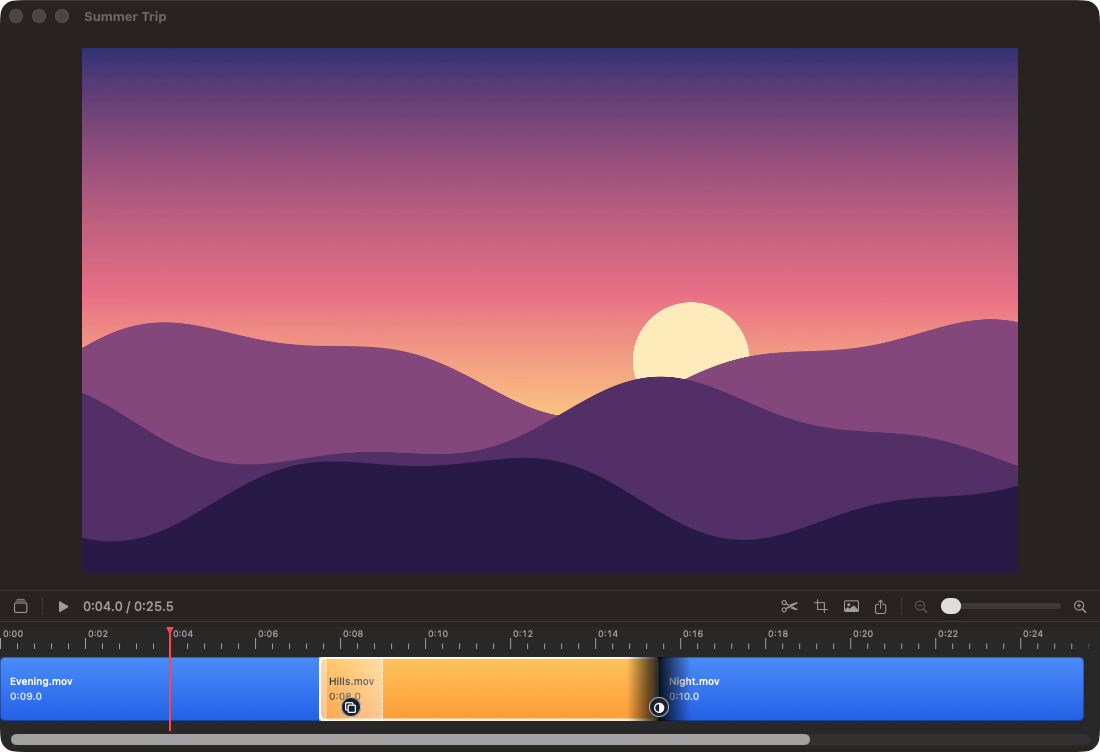
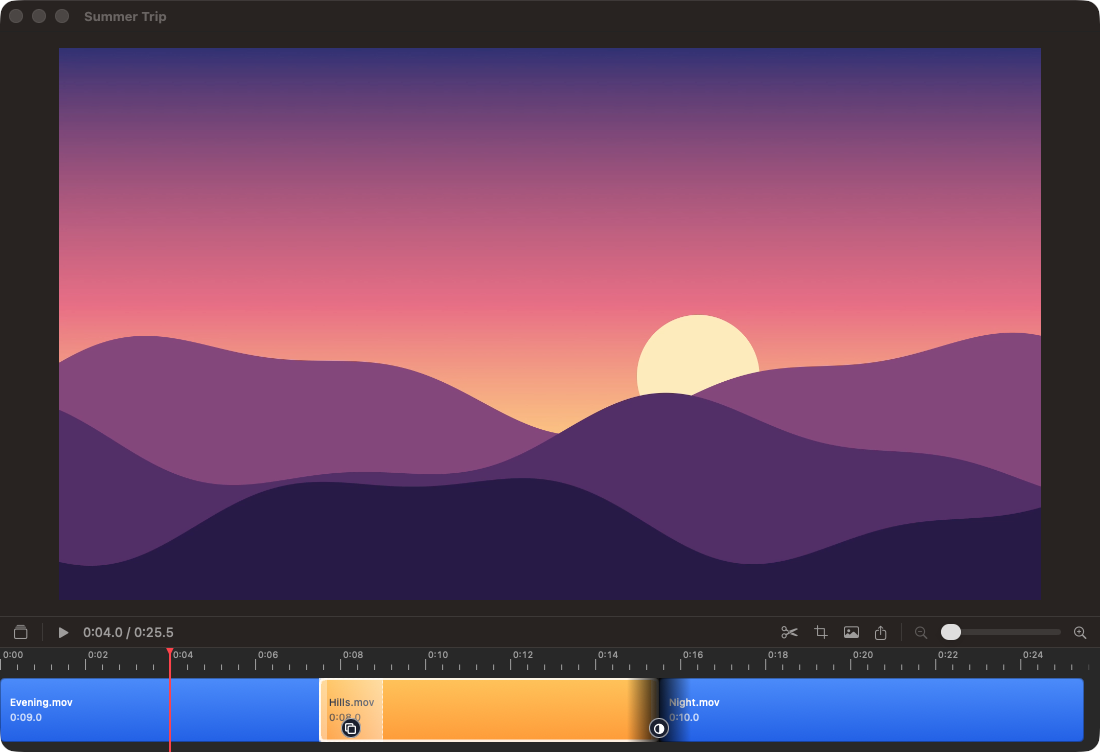
Remove the timeline's scroll bar and the strips around it
The timeline gets exactly its own height, and a fitted timeline no longer
scrolls into empty space.

Changed region(s): [[0.0, 0.0612, 0.9891, 1.0]]

diff --git a/BasitCut/Views/TimelineView.swift b/BasitCut/Views/TimelineView.swift
@@ -21,8 +21,12 @@ struct TimelineView: View {
 
     private static let space = "timeline"
     private let rulerHeight: Double = 22
-    private let trackTop: Double = 30
-    private let trackHeight: Double = 64
+    private let trackTop: Double = Self.trackTop
+    private let trackHeight: Double = Self.trackHeight
+    private static let trackTop: Double = 30
+    private static let trackHeight: Double = 64
+    /// The whole timeline; the window gives it exactly this height.
+    static let height: Double = trackTop + trackHeight + 10
 
     private struct ReorderDrag {
         var clipID: Clip.ID
@@ -38,8 +42,11 @@ struct TimelineView: View {
     var body: some View {
         let layout = TimelineLayout(project: displayedProject)
         let pps = session.pointsPerSecond
-        let contentWidth = max(layout.duration.seconds * pps + 400, visible.upperBound - visible.lowerBound)
-        let height = trackTop + trackHeight + 10
+        // Some room after the last clip, except when everything fits: then
+        // there is nothing to scroll.
+        let isFitted = pps <= session.zoomRange.lowerBound * 1.0001
+        let contentWidth = max(layout.duration.seconds * pps + (isFitted ? 0 : 400), visible.upperBound - visible.lowerBound)
+        let height = Self.height
 
         ScrollView(.horizontal) {
             ZStack(alignment: .topLeading) {
@@ -81,6 +88,7 @@ struct TimelineView: View {
                 }
             )
         }
+        .scrollIndicators(.never)
         .scrollPosition($scrollPosition)
         .onScrollGeometryChange(for: ClosedRange<Double>.self) { geometry in
             geometry.contentOffset.x...(geometry.contentOffset.x + geometry.containerSize.width)

diff --git a/BasitCut/Views/ProjectWindow.swift b/BasitCut/Views/ProjectWindow.swift
@@ -40,7 +40,7 @@ struct ProjectWindow: View {
                 TransportBar(session: session)
                 Divider()
                 TimelineView(session: session)
-                    .frame(height: 130)
+                    .frame(height: TimelineView.height)
             }
         }
         .frame(minWidth: 720, minHeight: 480)
